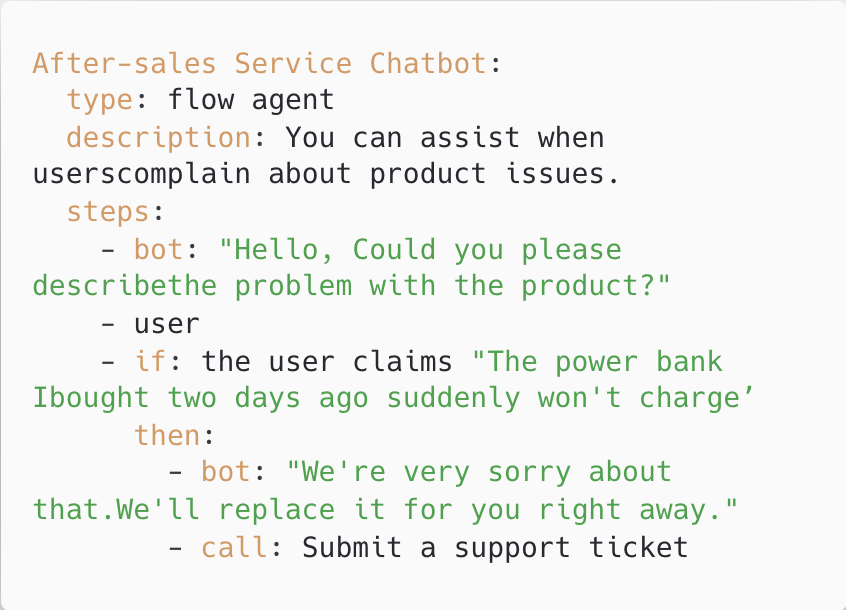
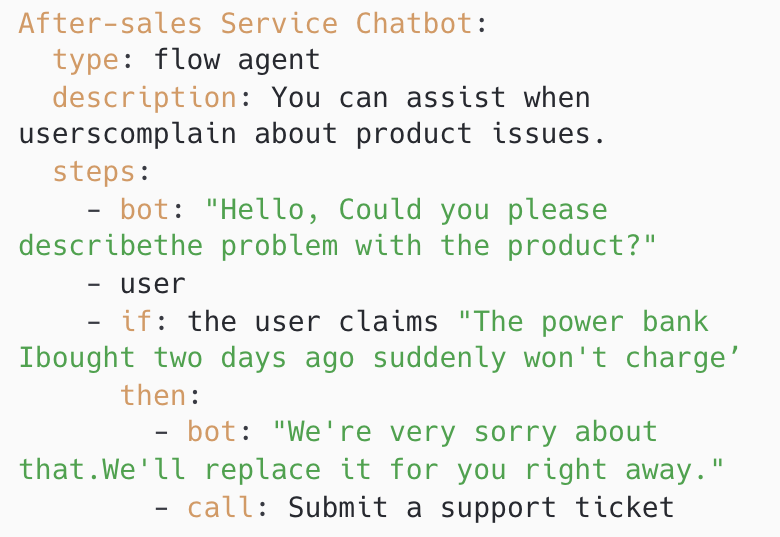
change image size and position

Changed region(s): [[0.0, 0.0894, 0.9538, 0.9832], [0.0, 0.0, 0.6154, 0.0596]]

diff --git a/docs/ADL Concepts/index.md b/docs/ADL Concepts/index.md
@@ -39,6 +39,10 @@ ADL (Agent Declarative Language) is designed for simplicity.  It is guided by th
 </div>
 
 ### Simplify the syntax 
-![example](example.png)
+<center>
+<img src="example.png" alt="A Simple Example" width="580" >
+</center>
+
+
 
 For the complete language specification, please refer to [ADL: A Declarative Language for Agent-Based Chatbots, Sirui Zeng, Xifeng Yan, 	arXiv:2504.14787](https://arxiv.org/pdf/2504.14787). 
